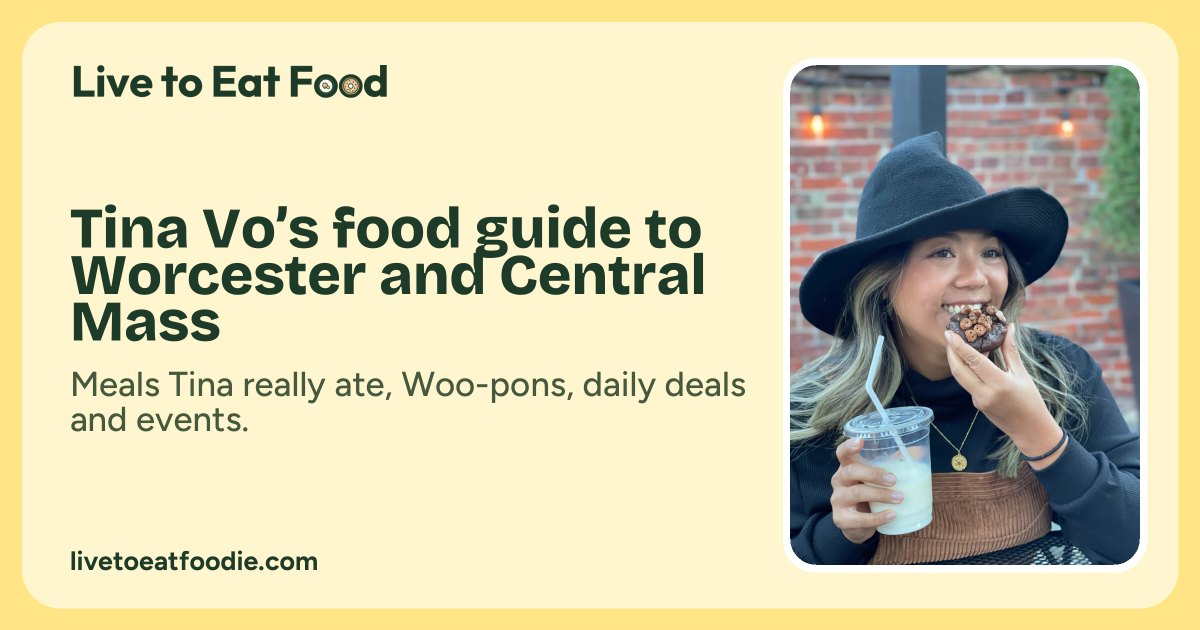
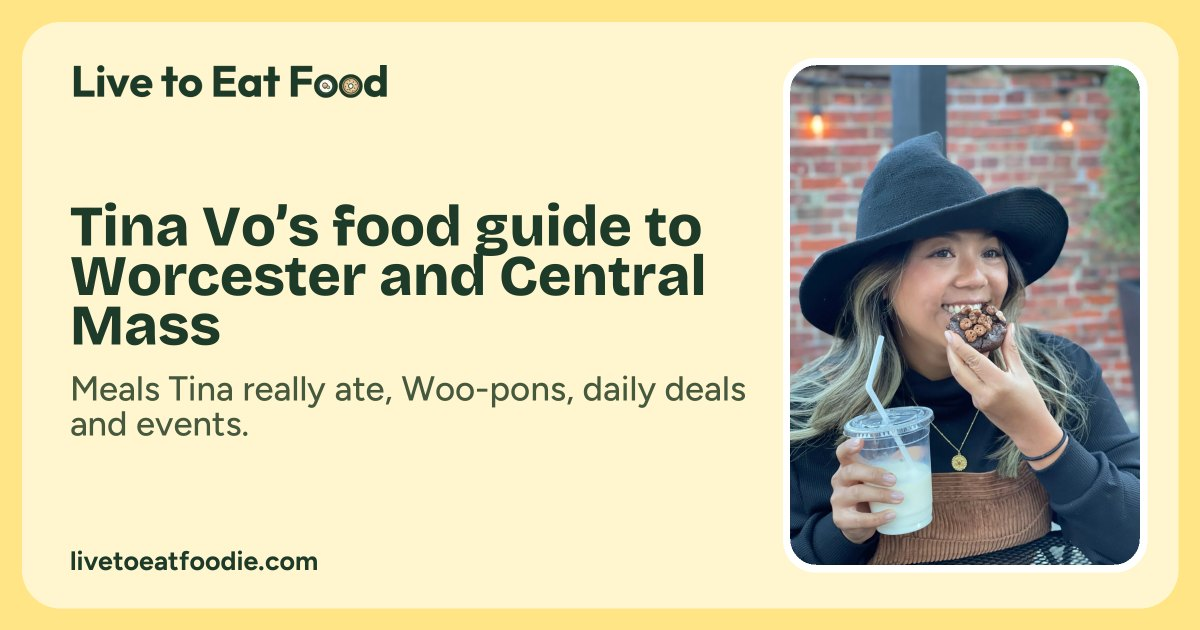
Share cards: a little more room between title lines (#114)
Claude-Session: https://claude.ai/code/session_01QYg1Z4UGVvgdxre1b7p1tQ

diff --git a/wordpress/ltef-core/ltef-core.php b/wordpress/ltef-core/ltef-core.php
@@ -2,7 +2,7 @@
 /**
  * Plugin Name:       Live to Eat Food Core
  * Description:       Places, Woo-pons, events, jobs, ad spots and the submission forms for Live to Eat Food. Every submission waits in Tina's review queue until she approves it. Pairs with the Live to Eat Food block theme.
- * Version:           1.31.0
+ * Version:           1.31.1
  * Requires at least: 6.6
  * Requires PHP:      7.4
  * Author:            Jeremy Anderson Tech
@@ -15,7 +15,7 @@
 
 defined( 'ABSPATH' ) || exit;
 
-define( 'LTEF_VERSION', '1.31.0' ); // keep in step with the header: browsers and Cloudflare cache the scripts by this
+define( 'LTEF_VERSION', '1.31.1' ); // keep in step with the header: browsers and Cloudflare cache the scripts by this
 define( 'LTEF_FILE', __FILE__ );
 define( 'LTEF_DIR', plugin_dir_path( __FILE__ ) );
 define( 'LTEF_URL', plugin_dir_url( __FILE__ ) );

diff --git a/wordpress/ltef-core/inc/share.php b/wordpress/ltef-core/inc/share.php
@@ -14,7 +14,7 @@
 defined( 'ABSPATH' ) || exit;
 
 /** Bump to redraw every card after a design change. */
-const LTEF_CARD_V = 2;
+const LTEF_CARD_V = 3;
 
 /* ------------------------------------------------------------------ What each page says */
 
@@ -355,7 +355,7 @@ function ltef_card_draw( $card, $path ) {
 	$rest      = ( $sub_lines[1] ? 40 + count( $sub_lines[1] ) * (int) round( $sub_lines[0] * 1.35 ) : 0 ) + ( $kick ? 140 : 0 );
 	foreach ( array( 150, 136, 122, 108, 96, 86 ) as $try ) { // the biggest title that leaves room above the address line
 		list( $ts, $tl ) = ltef_card_wrap( $title, $fb, array( $try, 86 ), $width, 3 );
-		$lh              = (int) round( $ts * 1.08 );
+		$lh              = (int) round( $ts * 1.15 );
 		$block           = count( $tl ) * $lh + $rest;
 		if ( $block <= 640 ) {
 			break;
